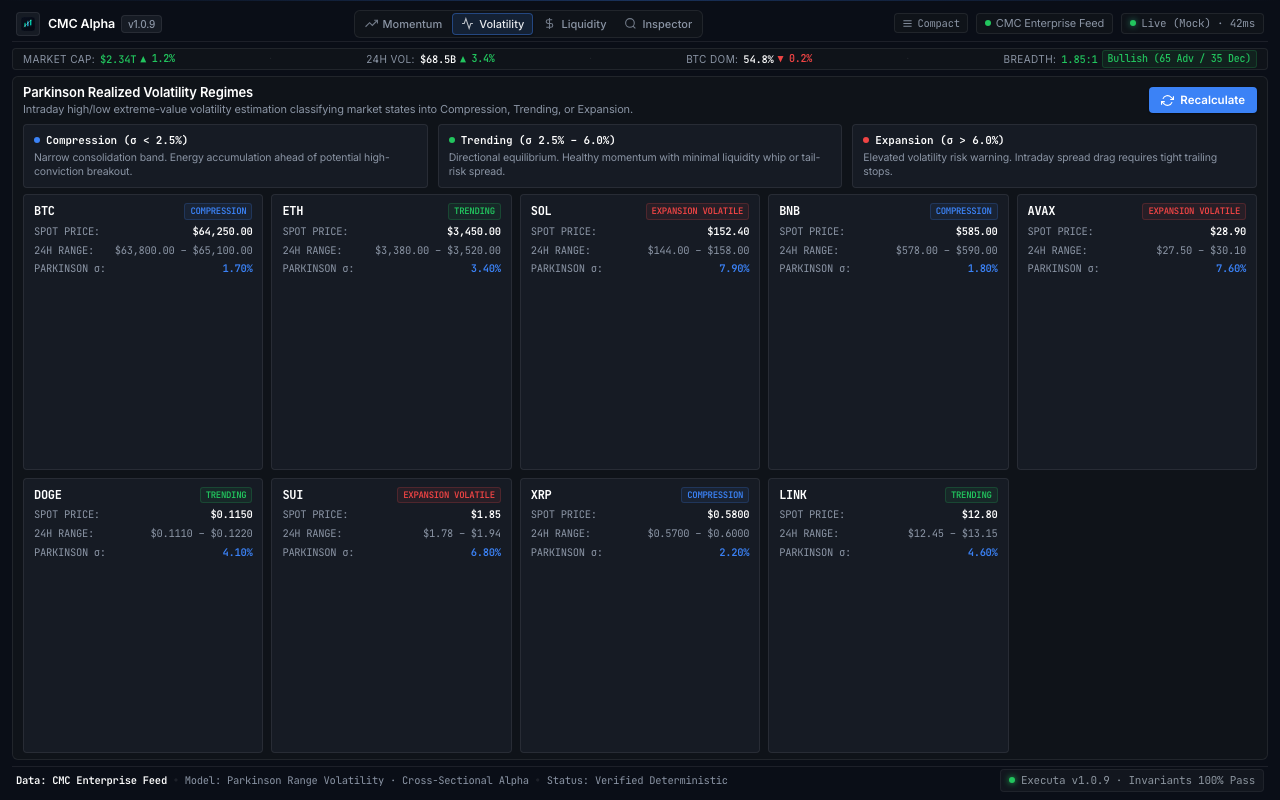
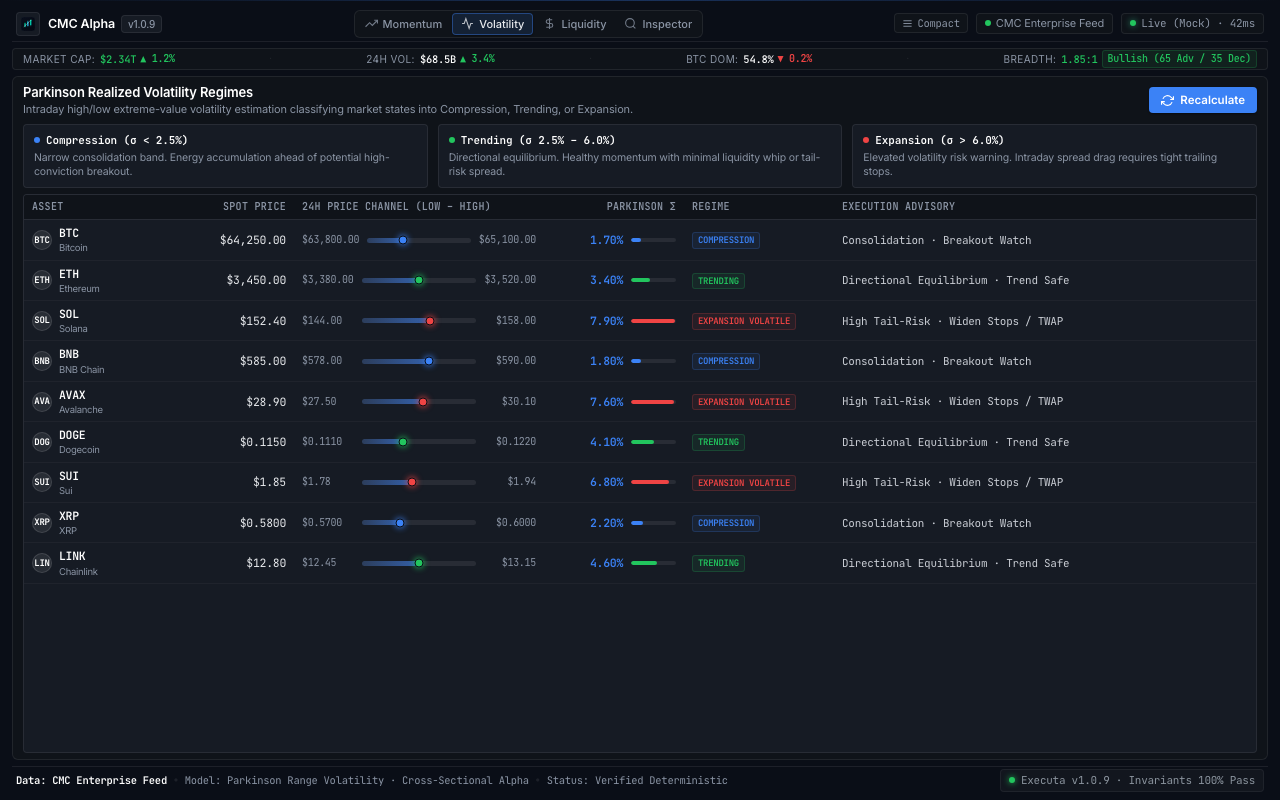
feat(volatility): transition cards grid to high-density quant table with range channels and debounced chat dispatch

diff --git a/bundle/app.js b/bundle/app.js
@@ -751,30 +751,54 @@ function initAnnaChatIntegration() {
     alert("Copied formatted alpha digest to clipboard (ready to paste in Anna Chat)!");
   });
 
-  // Ask Anna about Selected Asset
+  // Ask Anna about Selected Asset (Debounced to prevent RPC spam)
+  let isDispatchingChat = false;
   document.getElementById("btn-ask-anna-selected")?.addEventListener("click", async () => {
-    if (!selectedAsset) return;
+    if (!selectedAsset || isDispatchingChat) return;
+    isDispatchingChat = true;
+    const btn = document.getElementById("btn-ask-anna-selected");
+    if (btn) btn.disabled = true;
+
     const prompt = `Please explain why **${selectedAsset.symbol}** (${selectedAsset.name}) ranks **#${selectedAsset.rank}** with an Alpha Score of **${selectedAsset.momentum_score}/10.0**.\n\nContext:\n- Spot Price: ${formatCurrency(selectedAsset.price_usd)}\n- 24h Return: ${selectedAsset.percent_change_24h}%\n- 7d Return: ${selectedAsset.percent_change_7d}%\n- 24h Volume: ${formatCurrency(selectedAsset.volume_24h_usd)}\n- Parkinson Volatility: ${selectedAsset.parkinson_vol ? (selectedAsset.parkinson_vol * 100).toFixed(2) + '%' : 'N/A'} (${selectedAsset.regime || 'TRENDING'})\n- Turnover Ratio: ${selectedAsset.turnover_tier || 'DEEP_LIQUIDITY'}\n\nWhat are the primary drivers and risks for this asset over the next 48 hours?`;
 
-    if (anna && anna.chat && typeof anna.chat.write_message === "function") {
-      try {
+    try {
+      if (anna && anna.chat && typeof anna.chat.write_message === "function") {
         await anna.chat.write_message({ message: prompt });
         alert(`Analysis prompt for ${selectedAsset.symbol} sent to Anna Chat!`);
-        return;
-      } catch (err) {
-        console.warn("Host chat dispatch skipped:", err);
+      } else {
+        navigator.clipboard.writeText(prompt);
+        alert(`Copied deep-dive prompt for ${selectedAsset.symbol} to clipboard!`);
       }
+    } catch (err) {
+      console.warn("Host chat dispatch skipped:", err);
+      navigator.clipboard.writeText(prompt);
+      alert(`Copied deep-dive prompt for ${selectedAsset.symbol} to clipboard!`);
+    } finally {
+      setTimeout(() => {
+        isDispatchingChat = false;
+        if (btn) btn.disabled = false;
+      }, 1500);
     }
-    navigator.clipboard.writeText(prompt);
-    alert(`Copied deep-dive prompt for ${selectedAsset.symbol} to clipboard!`);
   });
 }
 
-// Volatility Regimes (Tab 2)
+function getAdvisoryByRegime(regimeClass) {
+  if (regimeClass === "compression") return "Consolidation · Breakout Watch";
+  if (regimeClass === "trending") return "Directional Equilibrium · Trend Safe";
+  return "High Tail-Risk · Widen Stops / TWAP";
+}
+
+function resolveAssetName(sym) {
+  if (STANDALONE_FIXTURES.quotes[sym]?.name) return STANDALONE_FIXTURES.quotes[sym].name;
+  const match = STANDALONE_FIXTURES.momentum.find(m => m.symbol === sym);
+  return match?.name || sym;
+}
+
+// Volatility Regimes (Tab 2 - Institutional Quant Table)
 async function renderVolatilityRegimes() {
-  const container = document.getElementById("volatility-cards");
+  const tbody = document.getElementById("volatility-tbody");
   const spinner = document.getElementById("volatility-spinner");
-  if (!container) return;
+  if (!tbody) return;
 
   if (spinner) spinner.classList.remove("hidden");
   const raw = await callScreener("volatility", { symbol: "ALL" });
@@ -782,40 +806,64 @@ async function renderVolatilityRegimes() {
   const items = normalizeArray(raw);
 
   if (items.length === 0) {
-    container.innerHTML = `<div style="color: var(--quant-red); text-align: center; padding: 20px;">Failed to compute volatility regimes.</div>`;
+    tbody.innerHTML = `<tr><td colspan="6" style="color: var(--quant-red); text-align: center; padding: 20px;">Failed to compute volatility regimes.</td></tr>`;
     return;
   }
 
-  container.innerHTML = items.map(item => {
+  tbody.innerHTML = items.map(item => {
     const sym = item.symbol ?? "BTC";
+    const name = resolveAssetName(sym);
     const rawRegime = item.regime ?? "COMPRESSION";
     const regime = String(rawRegime).toLowerCase();
     const regimeClass = regime.includes("compression") ? "compression" : regime.includes("trending") ? "trending" : "expansion";
     const volNum = item.parkinson_volatility ?? item.parkinson_vol ?? 0.02;
     const volPct = (volNum * 100).toFixed(2);
+    const volBarWidth = Math.min(100, Math.max(8, (volNum / 0.08) * 100));
     const price = item.price_usd ?? 0;
-    const high = item.high_24h_usd ?? item.high_24h ?? price;
-    const low = item.low_24h_usd ?? item.low_24h ?? price;
+    const high = item.high_24h_usd ?? item.high_24h ?? (price > 0 ? price * 1.02 : 1);
+    const low = item.low_24h_usd ?? item.low_24h ?? (price > 0 ? price * 0.98 : 0);
+    const span = Math.max(high - low, 0.0001);
+    const rawChannelPct = ((price - low) / span) * 100;
+    const channelPct = Math.max(2, Math.min(98, rawChannelPct));
+    const advisory = getAdvisoryByRegime(regimeClass);
 
     return `
-      <div class="vol-asset-card font-mono">
-        <div class="vol-card-top">
-          <span class="vol-symbol">${sym}</span>
+      <tr>
+        <td>
+          <div class="asset-cell">
+            <div class="asset-icon-box">${sym.slice(0, 3)}</div>
+            <div class="asset-text-group">
+              <span class="asset-symbol">${sym}</span>
+              <span class="asset-name">${name}</span>
+            </div>
+          </div>
+        </td>
+        <td class="col-num">${formatCurrency(price)}</td>
+        <td>
+          <div class="range-channel-wrap font-mono">
+            <span class="range-extreme-val left">${formatCurrency(low)}</span>
+            <div class="range-channel-track" title="Spot: ${formatCurrency(price)} (${channelPct.toFixed(0)}% of 24h channel)">
+              <div class="range-channel-fill" style="width: ${channelPct}%;"></div>
+              <div class="range-channel-thumb ${regimeClass}" style="left: ${channelPct}%;"></div>
+            </div>
+            <span class="range-extreme-val right">${formatCurrency(high)}</span>
+          </div>
+        </td>
+        <td class="col-num">
+          <div class="vol-sigma-cell font-mono">
+            <span class="vol-sigma-val" style="color: var(--quant-blue);">${volPct}%</span>
+            <div class="vol-sigma-bar">
+              <div class="vol-sigma-fill ${regimeClass}" style="width: ${volBarWidth}%;"></div>
+            </div>
+          </div>
+        </td>
+        <td>
           <span class="regime-pill ${regimeClass}">${String(rawRegime).replace('_', ' ')}</span>
-        </div>
-        <div class="vol-metrics-row">
-          <span>SPOT PRICE:</span>
-          <span class="vol-val">${formatCurrency(price)}</span>
-        </div>
-        <div class="vol-metrics-row">
-          <span>24H RANGE:</span>
-          <span>${formatCurrency(low)} – ${formatCurrency(high)}</span>
-        </div>
-        <div class="vol-metrics-row">
-          <span>PARKINSON σ:</span>
-          <span class="vol-val" style="color: var(--quant-blue);">${volPct}%</span>
-        </div>
-      </div>
+        </td>
+        <td>
+          <span class="vol-advisory-text">${advisory}</span>
+        </td>
+      </tr>
     `;
   }).join("");
 }

diff --git a/bundle/style.css b/bundle/style.css
@@ -1669,6 +1669,114 @@ body.density-compact .filter-strip {
 .trending-dot { background: var(--quant-green); }
 .expansion-dot { background: var(--quant-red); }
 
+/* ==========================================================================
+   Volatility Table & Range Channel Components
+   ========================================================================== */
+
+.range-channel-wrap {
+  display: flex;
+  align-items: center;
+  gap: 8px;
+  width: 100%;
+}
+
+.range-extreme-val {
+  font-size: 10px;
+  color: var(--muted-foreground);
+  min-width: 52px;
+}
+
+.range-extreme-val.left {
+  text-align: left;
+}
+
+.range-extreme-val.right {
+  text-align: right;
+}
+
+.range-channel-track {
+  position: relative;
+  flex: 1;
+  height: 5px;
+  background: rgba(255, 255, 255, 0.08);
+  border-radius: 999px;
+  overflow: visible;
+}
+
+.range-channel-fill {
+  position: absolute;
+  top: 0;
+  bottom: 0;
+  left: 0;
+  background: linear-gradient(90deg, rgba(59, 130, 246, 0.2), rgba(59, 130, 246, 0.6));
+  border-radius: 999px;
+}
+
+.range-channel-thumb {
+  position: absolute;
+  top: 50%;
+  width: 9px;
+  height: 9px;
+  border-radius: 50%;
+  transform: translate(-50%, -50%);
+  background: #ffffff;
+  box-shadow: 0 0 6px rgba(255, 255, 255, 0.6);
+  border: 1.5px solid #0a0e17;
+  z-index: 2;
+}
+
+.range-channel-thumb.compression {
+  background: var(--quant-blue);
+  box-shadow: 0 0 6px var(--quant-blue);
+}
+
+.range-channel-thumb.trending {
+  background: var(--quant-green);
+  box-shadow: 0 0 6px var(--quant-green);
+}
+
+.range-channel-thumb.expansion {
+  background: var(--quant-red);
+  box-shadow: 0 0 6px var(--quant-red);
+}
+
+.vol-sigma-cell {
+  display: flex;
+  align-items: center;
+  justify-content: flex-end;
+  gap: 8px;
+}
+
+.vol-sigma-val {
+  font-weight: 600;
+  min-width: 48px;
+  text-align: right;
+}
+
+.vol-sigma-bar {
+  width: 45px;
+  height: 4px;
+  background: rgba(255, 255, 255, 0.08);
+  border-radius: 2px;
+  overflow: hidden;
+  position: relative;
+}
+
+.vol-sigma-fill {
+  height: 100%;
+  border-radius: 2px;
+  background: var(--quant-blue);
+}
+
+.vol-sigma-fill.compression { background: var(--quant-blue); }
+.vol-sigma-fill.trending { background: var(--quant-green); }
+.vol-sigma-fill.expansion { background: var(--quant-red); }
+
+.vol-advisory-text {
+  font-size: 11px;
+  color: #c9cdd4;
+}
+
 .volatility-cards-grid {
   display: grid;
   grid-template-columns: repeat(auto-fill, minmax(220px, 1fr));

diff --git a/bundle/index.html b/bundle/index.html
@@ -403,9 +403,23 @@
             </div>
           </div>
 
-          <!-- Volatility Grid -->
-          <div class="volatility-cards-grid" id="volatility-cards">
-            <!-- Dynamically populated by app.js -->
+          <!-- Volatility Table Component -->
+          <div class="table-card-wrapper">
+            <table class="quant-table font-mono" id="volatility-table">
+              <thead>
+                <tr>
+                  <th style="width: 160px;">Asset</th>
+                  <th class="th-num" style="width: 110px;">Spot Price</th>
+                  <th style="width: 250px;">24h Price Channel (Low – High)</th>
+                  <th class="th-num" style="width: 140px;">Parkinson &sigma;</th>
+                  <th style="width: 150px;">Regime</th>
+                  <th>Execution Advisory</th>
+                </tr>
+              </thead>
+              <tbody id="volatility-tbody">
+                <!-- Dynamically populated by app.js -->
+              </tbody>
+            </table>
           </div>
         </div>
       </section>

diff --git a/tests/test_cmc_plugin.py b/tests/test_cmc_plugin.py
@@ -194,3 +194,25 @@ def test_manifest_version_109():
     desc = handle_describe({})
     assert desc["version"] == "1.0.9"
 
+
+def test_bundle_volatility_table_contract():
+    bundle_dir = os.path.abspath(os.path.join(os.path.dirname(__file__), "..", "bundle"))
+    index_path = os.path.join(bundle_dir, "index.html")
+    style_path = os.path.join(bundle_dir, "style.css")
+    app_path = os.path.join(bundle_dir, "app.js")
+
+    with open(index_path, "r", encoding="utf-8") as f:
+        html = f.read()
+    with open(style_path, "r", encoding="utf-8") as f:
+        css = f.read()
+    with open(app_path, "r", encoding="utf-8") as f:
+        js = f.read()
+
+    # Red test assertions: will pass once Tasks 1-4 are completed
+    assert "id=\"volatility-table\"" in html
+    assert "id=\"volatility-tbody\"" in html
+    assert ".range-channel-track" in css
+    assert "renderVolatilityRegimes" in js
+    assert "isDispatchingChat" in js
+
+
